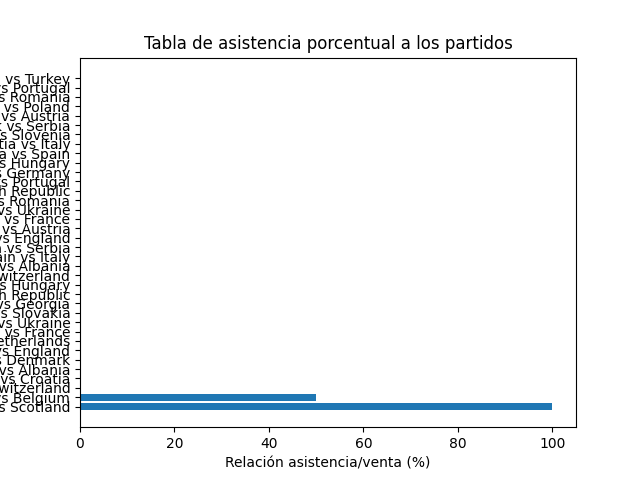
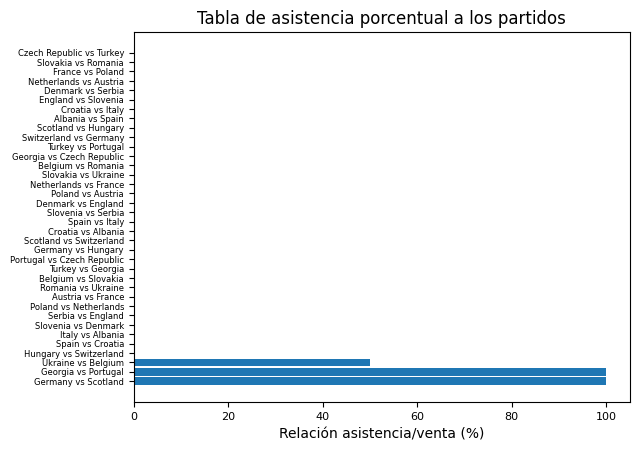
readability for the attendance graph improved, changed a print content so it makes sense

Changed region(s): [[0.0, 0.031, 0.9515, 0.9933], [0.9218, 0.9002, 0.9812, 0.9313], [0.9812, 0.8692, 1.0, 0.9002]]

diff --git a/functionalities/statisticsFolder/staticticsCode.py b/functionalities/statisticsFolder/staticticsCode.py
@@ -141,9 +141,12 @@ def create_and_save_graphs(clients, matches, products):
     attendance_ratios = [entry["attendance_ratio"] * 100 for entry in attendance_table]
     fig, ax = plt.subplots()
     ax.barh(match_names, attendance_ratios)
-    ax.set_xlabel('Relación asistencia/venta (%)')
-    ax.set_title('Tabla de asistencia porcentual a los partidos')
-    plt.savefig(os.path.join(graphs_dir, "match_attendance.png"))
+    ax.set_xlabel('Relación asistencia/venta (%)', fontsize=10)
+    ax.set_title('Tabla de asistencia porcentual a los partidos', fontsize=12)
+    ax.tick_params(axis='y', labelsize=8)  # Adjust y-axis label size
+    plt.xticks(fontsize=8)
+    plt.yticks(ha='right', fontsize=6)  # Rotate y-axis labels for better readability
+    plt.savefig(os.path.join(graphs_dir, "match_attendance.png"), bbox_inches='tight')  # Ensure everything fits
     plt.close(fig)
     
     # 2. Graph for top 3 selling products
@@ -154,6 +157,7 @@ def create_and_save_graphs(clients, matches, products):
     ax.bar(product_names, product_quantities)
     ax.set_ylabel('Cantidad vendida')
     ax.set_title('Top 3 productos más vendidos en el restaurante')
+    ax.tick_params(axis='x', labelsize=8)
     plt.savefig(os.path.join(graphs_dir, "top_selling_products.png"))
     plt.close(fig)
     
@@ -165,6 +169,7 @@ def create_and_save_graphs(clients, matches, products):
     ax.bar(client_names, tickets_bought)
     ax.set_ylabel('Boletos comprados')
     ax.set_title('Top 3 clientes (que más compraron boletos)')
+    ax.tick_params(axis='x', labelsize=8)
     plt.savefig(os.path.join(graphs_dir, "top_clients.png"))
     plt.close(fig)
 

diff --git a/functionalities/buyProduct.py b/functionalities/buyProduct.py
@@ -46,7 +46,7 @@ def validate_product(temp_products, client):
         - The function clears the temporary products list if the user chooses not to add another product.
         - The function breaks the loop if the user chooses to go back to the main menu.
     """
-    print("Ponga el número del producto que desee agregar a la compra, para devolverte a este menu escribe 'menu': ")
+    print("Ponga el número del producto que desee agregar a la compra, para devolverte a el menu escribe 'menu': ")
 
     while True:
         product = get_user_input("", int)

diff --git a/functionalities/App.py b/functionalities/App.py
@@ -582,7 +582,10 @@ class App:
                     if id == "M":
                         continue
                     client = next((client for client in self.clients if client.id == id), None)
-                    print(client)
+                    if client is not None:
+                        print(client)
+                    else: 
+                        print("Cliente no encontrado")
                 elif option == 10:
                     self.store_data()
                     write_statistics_to_file(self.clients, self.matches, self.products)
